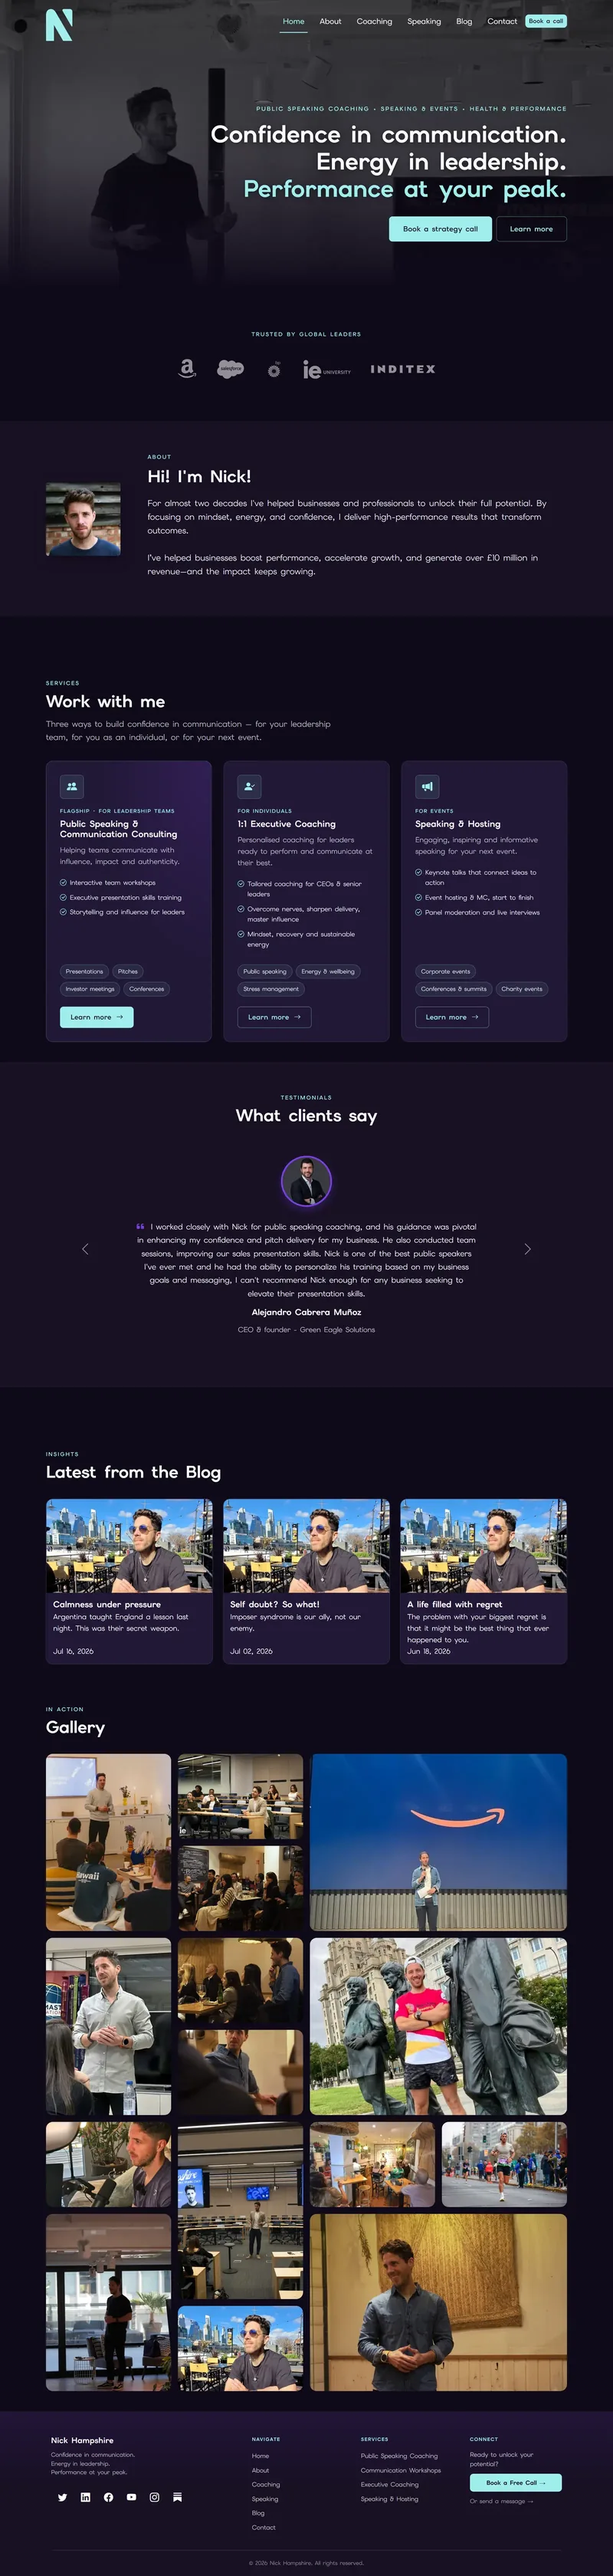
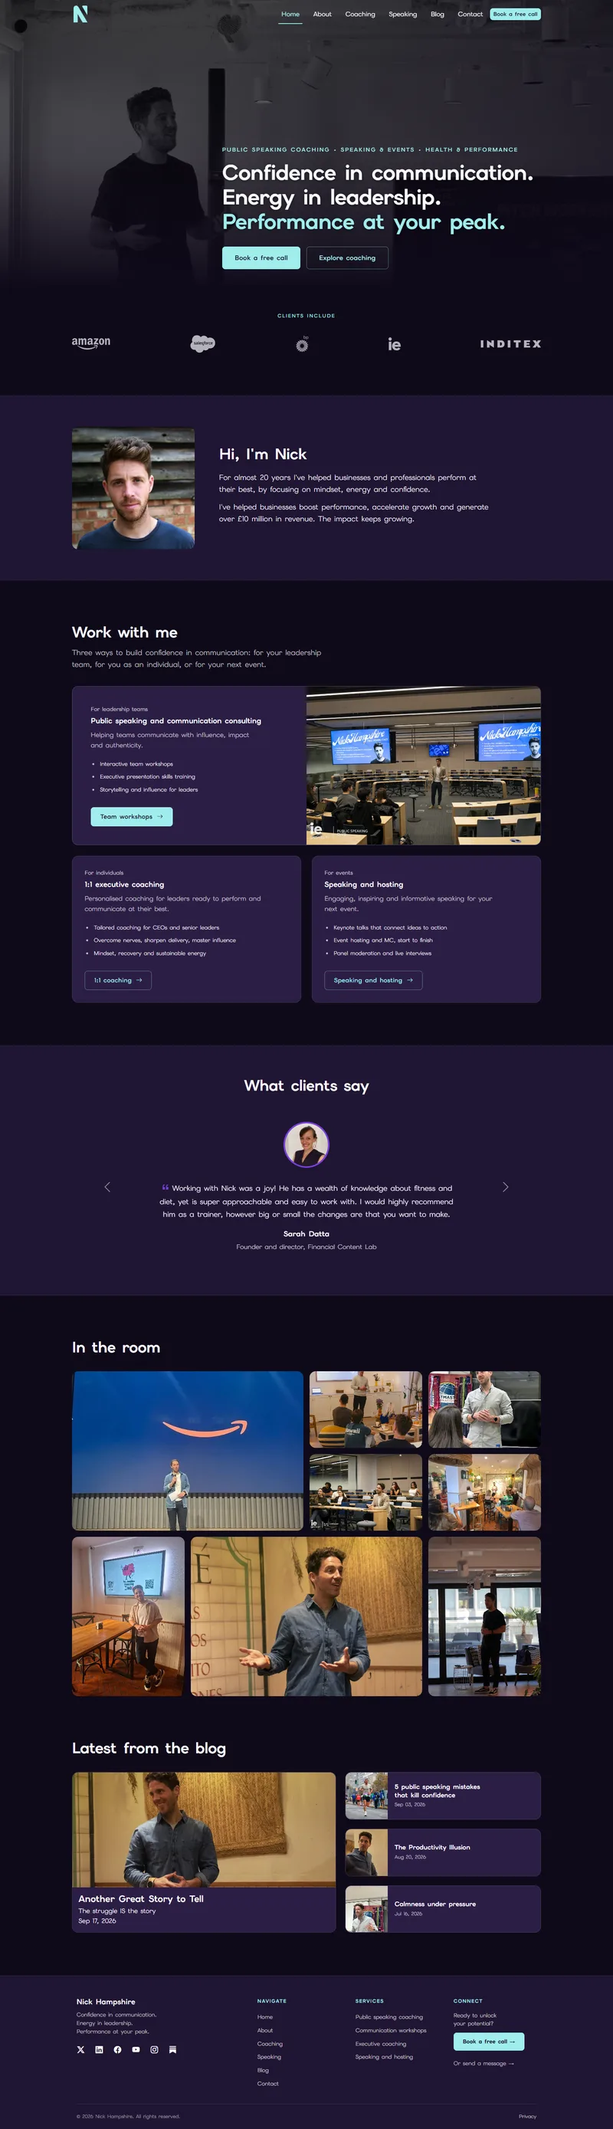
Re-shoot the Nick Hampshire screenshots after the site refresh
Updates the full-page height, the alt text and two lines of copy to match the new site.

diff --git a/projects/nick-hampshire.html b/projects/nick-hampshire.html
@@ -112,7 +112,7 @@
                 <span class="shot-url">nickhampshire.com</span>
               </div>
               <img src="../assets/img/nick-hampshire/desktop-hero.webp" width="1920" height="1200"
-                alt="Nick Hampshire homepage hero: a dark stage-lit photograph of Nick mid-talk beside the headline 'Confidence in communication. Energy in leadership. Performance at your peak.' with a solid teal Book a strategy call button and an outlined Learn more button">
+                alt="Nick Hampshire homepage hero: a dark stage-lit photograph of Nick mid-talk beside the headline 'Confidence in communication. Energy in leadership. Performance at your peak.' with a solid teal Book a free call button and an outlined Explore coaching button">
             </div>
             <figcaption>The homepage opens like one of Nick&rsquo;s talks. Live at
               <a href="https://nickhampshire.com/" target="_blank" rel="noopener noreferrer">nickhampshire.com</a>
@@ -176,7 +176,7 @@
               <span class="type-row-num" aria-hidden="true">02</span>
               <div>
                 <h3>Built like a talk</h3>
-                <p>Hook, proof, method, ask. The promise, a logo wall, &ldquo;Hi! I&rsquo;m Nick&rdquo;, then three
+                <p>Hook, proof, method, ask. The promise, a logo wall, &ldquo;Hi, I&rsquo;m Nick&rdquo;, then three
                   ways to work with him.</p>
               </div>
             </li>
@@ -191,7 +191,7 @@
               <span class="type-row-num" aria-hidden="true">04</span>
               <div>
                 <h3>One clear action</h3>
-                <p>Every section ends at one teal button: book a strategy call.</p>
+                <p>Every section ends at one teal button: book a free call.</p>
               </div>
             </li>
           </ol>
@@ -226,8 +226,8 @@
                      srcset="../assets/img/nick-hampshire/desktop-full-800w.webp 800w,
                              ../assets/img/nick-hampshire/desktop-full-1600w.webp 1600w"
                      sizes="(max-width: 991px) calc(100vw - 4rem), 50rem"
-                     width="1600" height="6719" loading="lazy"
-                  alt="The full Nick Hampshire homepage from hero to footer: headline, a trusted-by logo wall now including Inditex, about section, three icon-led service cards, a single-quote testimonial carousel, blog posts and photo gallery">
+                     width="1600" height="5555" loading="lazy"
+                  alt="The full Nick Hampshire homepage from hero to footer: headline, a clients logo wall including Inditex, about section, three service cards led by a wide flagship card with a photo, a single-quote testimonial carousel, an In the room photo gallery and the latest blog posts">
               </div>
             </div>
             <figcaption>The full homepage.</figcaption>
@@ -245,7 +245,7 @@
                 <span class="shot-url">nickhampshire.com</span>
               </div>
               <img src="../assets/img/nick-hampshire/desktop-services.webp" width="1920" height="1200" loading="lazy"
-                alt="'Work with me' section with three icon-led cards labelled Flagship for leadership teams, For individuals, and For events: Public Speaking &amp; Communication Consulting, 1:1 Executive Coaching, and Speaking &amp; Hosting, each with checkmarked bullet points, focus-area tags and a solid teal Learn More button">
+                alt="'Work with me' section: a wide card for leadership teams, Public speaking and communication consulting, pairs bullet points and a solid teal Team workshops button with a photo of Nick presenting in a lecture hall, above two cards for 1:1 executive coaching and Speaking and hosting with outlined buttons">
             </div>
             <figcaption>Four blurred offers became three clear cards.</figcaption>
           </figure>
@@ -258,7 +258,7 @@
                 <span class="shot-url">nickhampshire.com/coaching</span>
               </div>
               <img src="../assets/img/nick-hampshire/desktop-inner.webp" width="1920" height="1200" loading="lazy"
-                alt="Coaching page with the tagline 'Helping leaders and teams communicate with clarity, confidence, and impact' above a Flagship Programme card listing focus-area tags and a solid teal Book a Consultation button">
+                alt="Coaching page with the tagline 'Helping leaders and teams communicate with clarity, confidence and impact' above a Public speaking and communication consulting card that pairs bullet points and a solid teal Book a free call button with a workshop photo, followed by a client quote">
             </div>
             <figcaption>Inner pages keep the rhythm: promise, proof, one button.</figcaption>
           </figure>
@@ -271,7 +271,7 @@
           <figure class="case-shot case-shot-phone reveal">
             <div class="shot-phone">
               <img src="../assets/img/nick-hampshire/mobile-hero.webp" width="780" height="1688" loading="lazy"
-                alt="Mobile homepage hero with the three-line headline and stacked solid Book a strategy call and outlined Learn more buttons">
+                alt="Mobile homepage hero with the three-line headline and stacked solid Book a free call and outlined Explore coaching buttons">
             </div>
             <figcaption>The hook</figcaption>
           </figure>
@@ -280,7 +280,7 @@
           <figure class="case-shot case-shot-phone reveal">
             <div class="shot-phone">
               <img src="../assets/img/nick-hampshire/mobile-about.webp" width="780" height="1688" loading="lazy"
-                alt="Mobile 'Hi! I'm Nick!' about section describing two decades of coaching experience">
+                alt="Mobile 'Hi, I'm Nick' about section: Nick's portrait above copy on almost 20 years of helping businesses and professionals">
             </div>
             <figcaption>The story</figcaption>
           </figure>
@@ -289,7 +289,7 @@
           <figure class="case-shot case-shot-phone reveal">
             <div class="shot-phone">
               <img src="../assets/img/nick-hampshire/mobile-services.webp" width="780" height="1688" loading="lazy"
-                alt="Mobile 'Work with me' section with the Flagship public speaking consulting card: an icon badge, checkmarked bullet points and focus-area tags">
+                alt="Mobile 'Work with me' section opening on the leadership teams card: a lecture-hall photo above Public speaking and communication consulting and its bullet points">
             </div>
             <figcaption>The ask</figcaption>
           </figure>
